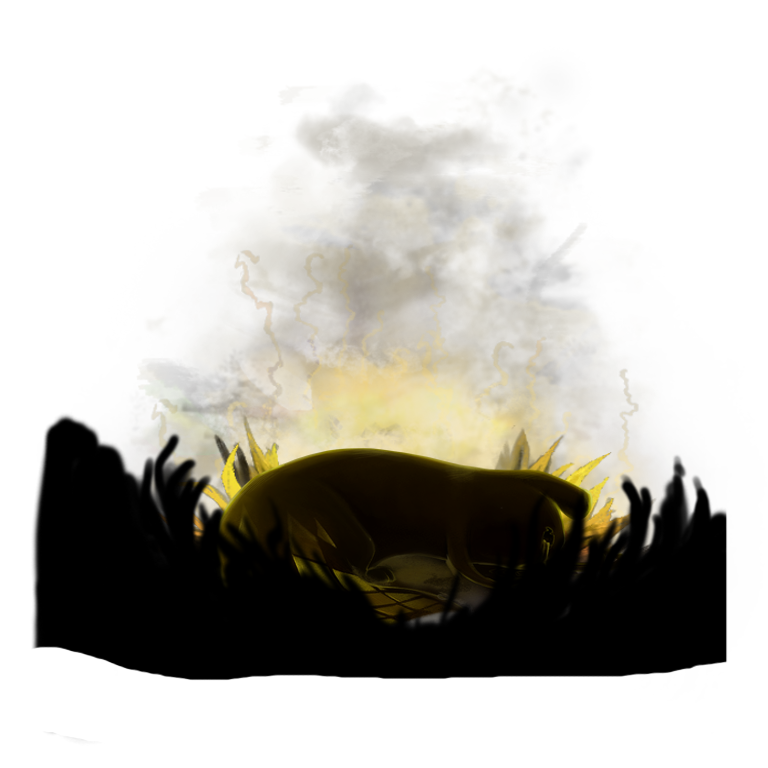
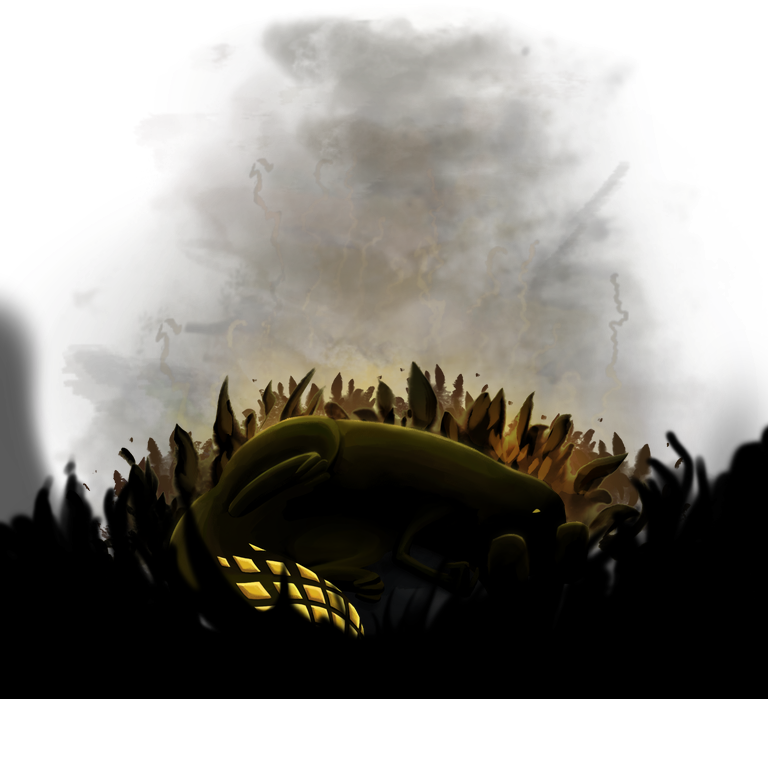
Death Scene Update

diff --git a/src/PlayerMechanics/Karma11Foundation/Karma11Symbol.cs b/src/PlayerMechanics/Karma11Foundation/Karma11Symbol.cs
@@ -3,6 +3,7 @@ using RWCustom;
 using System;
 using System.Collections.Generic;
 using UnityEngine;
+using VoidTemplate.PlayerMechanics.Karma11Features;
 using static VoidTemplate.Useful.Utils;
 using static VoidTemplate.VoidEnums;
 
@@ -15,18 +16,18 @@ public static class Karma11Symbol
 		On.Menu.KarmaLadder.KarmaSymbol.ctor += KarmaSymbol_ctor;
 		On.HUD.KarmaMeter.KarmaSymbolSprite += KarmaMeter_KarmaSymbolSprite;
 		On.PlayerProgression.GetOrInitiateSaveState += PlayerProgression_GetOrInitiateSaveState;
-	}
+		On.Menu.SleepAndDeathScreen.ctor += SleepAndDeathScreen_ctor;
+    }
 
-	const int karma11index = 10;
+    const int karma11index = 10;
 	public static ushort currentKarmaTokens = 0;
 
-	private static SaveState PlayerProgression_GetOrInitiateSaveState(On.PlayerProgression.orig_GetOrInitiateSaveState orig, PlayerProgression self, SlugcatStats.Name saveStateNumber, RainWorldGame game, ProcessManager.MenuSetup setup, bool saveAsDeathOrQuit)
+    private static SaveState PlayerProgression_GetOrInitiateSaveState(On.PlayerProgression.orig_GetOrInitiateSaveState orig, PlayerProgression self, SlugcatStats.Name saveStateNumber, RainWorldGame game, ProcessManager.MenuSetup setup, bool saveAsDeathOrQuit)
 	{
 		SaveState result = orig(self, saveStateNumber, game, setup, saveAsDeathOrQuit);
 		if (saveStateNumber == SlugcatID.Void || saveStateNumber == SlugcatID.Viy)
 		{
 			currentKarmaTokens = (ushort)result.GetKarmaToken();
-			
         }
 		return result;
 	}
@@ -41,19 +42,35 @@ public static class Karma11Symbol
 		return orig(small, k);
 	}
 
+    private static void SleepAndDeathScreen_ctor(On.Menu.SleepAndDeathScreen.orig_ctor orig, SleepAndDeathScreen self, ProcessManager manager, ProcessManager.ProcessID ID)
+    {
+		SaveState saveState = manager.rainWorld.progression.GetOrInitiateSaveState(SlugcatID.Void, null, manager.rainWorld.processManager.menuSetup, false);
+		if (saveState.saveStateNumber == SlugcatID.Void)
+		{
+			int maxFood = 9 + (saveState.deathPersistentSaveData.karmaCap == 10 ? saveState.GetVoidExtraFood() : 0);
+			int foodToHibernate = 6 + (saveState.GetVoidExtraFood() == 3 ? saveState.GetVoidFoodToHibernate() : 0);
+            if (ID == ProcessID.TokenDecrease
+				|| ID == ProcessManager.ProcessID.SleepScreen
+				&& maxFood == saveState.food + foodToHibernate - 1
+                && saveState.GetVoidFoodToHibernate() < 6
+				&& saveState.GetKarmaToken() > 0)
+				currentKarmaTokens++;
+		}
+		orig(self, manager, ID);
+    }
 
-	/// <summary>
-	/// this introduces spawning logic for when required karma is (10,10) and makes all other invisible if it's the current one
-	/// </summary>
-	/// <param name="orig"></param>
-	/// <param name="self"></param>
-	/// <param name="menu"></param>
-	/// <param name="owner"></param>
-	/// <param name="pos"></param>
-	/// <param name="container"></param>
-	/// <param name="foregroundContainer"></param>
-	/// <param name="displayKarma"></param>
-	private static void KarmaSymbol_ctor(On.Menu.KarmaLadder.KarmaSymbol.orig_ctor orig, KarmaLadder.KarmaSymbol self, Menu.Menu menu, MenuObject owner, Vector2 pos, FContainer container, FContainer foregroundContainer, IntVector2 displayKarma, bool ripple)
+    /// <summary>
+    /// this introduces spawning logic for when required karma is (10,10) and makes all other invisible if it's the current one
+    /// </summary>
+    /// <param name="orig"></param>
+    /// <param name="self"></param>
+    /// <param name="menu"></param>
+    /// <param name="owner"></param>
+    /// <param name="pos"></param>
+    /// <param name="container"></param>
+    /// <param name="foregroundContainer"></param>
+    /// <param name="displayKarma"></param>
+    private static void KarmaSymbol_ctor(On.Menu.KarmaLadder.KarmaSymbol.orig_ctor orig, KarmaLadder.KarmaSymbol self, Menu.Menu menu, MenuObject owner, Vector2 pos, FContainer container, FContainer foregroundContainer, IntVector2 displayKarma, bool ripple)
 	{
 		orig(self, menu, owner, pos, container, foregroundContainer, displayKarma, ripple);
 		if (displayKarma.x == karma11index)

diff --git a/src/PlayerMechanics/Karma11Foundation/KarmaLadderTokenDecrease.cs b/src/PlayerMechanics/Karma11Foundation/KarmaLadderTokenDecrease.cs
@@ -23,7 +23,7 @@ public static class KarmaLadderTokenDecrease
         //making sleepanddeathscreen understand new ID
         On.Menu.KarmaLadder.ctor_Menu_MenuObject_Vector2_HUD_IntVector2_bool += KarmaLadder_ctor_Menu_MenuObject_Vector2_HUD_IntVector2_bool;
 		//all the logic with swapping sprites
-		On.Menu.KarmaLadder.KarmaSymbol.GrafUpdate += KarmaSymbol_GrafUpdate;
+		//On.Menu.KarmaLadder.KarmaSymbol.GrafUpdate += KarmaSymbol_GrafUpdate;
         //adding background illustration to new process ID
         On.Menu.SleepAndDeathScreen.AddBkgIllustration += SleepAndDeathScreen_AddBkgIllustration;
 		
@@ -108,7 +108,7 @@ public static class KarmaLadderTokenDecrease
 		if (ID == VoidEnums.ProcessID.TokenDecrease)
 		{
 			self.currentMainLoop = new SleepAndDeathScreen(self, ID);
-		}
+        }
 		orig(self, ID);
 	}
 

diff --git a/src/KarmaHooks.cs b/src/KarmaHooks.cs
@@ -7,6 +7,7 @@ using RWCustom;
 using System;
 using UnityEngine;
 using VoidTemplate.PlayerMechanics.Karma11Features;
+using VoidTemplate.PlayerMechanics.Karma11Foundation;
 using static VoidTemplate.Useful.Utils;
 
 
@@ -34,7 +35,7 @@ namespace VoidTemplate
         {
 			if (self.saveState.saveStateNumber == VoidEnums.SlugcatID.Void)
 			{
-				MenuScene.SceneID sceneID = null;
+                MenuScene.SceneID sceneID = null;
 				if (self.IsSleepScreen && self.saveState.GetVoidMarkV3())
 				{
 					sceneID = VoidEnums.SceneID.SleepSceneMark;

diff --git a/src/PlayerMechanics/DreamCustom.cs b/src/PlayerMechanics/DreamCustom.cs
@@ -1,4 +1,6 @@
-namespace VoidTemplate.PlayerMechanics;
+using VoidTemplate.PlayerMechanics.Karma11Features;
+
+namespace VoidTemplate.PlayerMechanics;
 
 public static class DreamCustom
 {
@@ -62,7 +64,8 @@ public static class DreamCustom
 			{
 				case 10:
 					{
-						saveState.EnlistDreamIfNotSeen(SaveManager.Dream.VoidHeart);
+						if (Karma11Update.VoidKarma11)
+							saveState.EnlistDreamIfNotSeen(SaveManager.Dream.VoidHeart);
 						break;
 					}
 			}

diff --git a/src/MenuTinkery/CustomSleepMusic.cs b/src/MenuTinkery/CustomSleepMusic.cs
@@ -52,7 +52,7 @@ public static class CustomSleepMusic
     {
         orig(self, sender, message);
 
-        if (message == "CONTINUE" && self.saveState?.saveStateNumber == VoidEnums.SlugcatID.Void)
+        if ((message == "CONTINUE" || message == "EXIT") && self.saveState?.saveStateNumber == VoidEnums.SlugcatID.Void)
         {
             if (self.soundLoop != null && self.mySoundLoopID == VoidEnums.SoundID.SleepMarkSound)
             {
